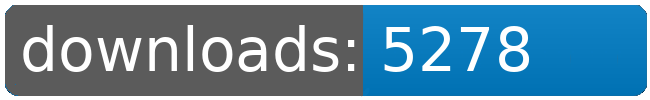
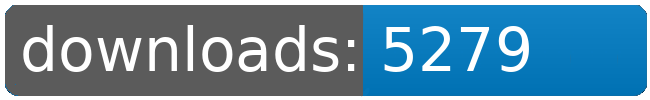
dl log written

Changed region(s): [[0.7692, 0.27, 0.8308, 0.72]]

diff --git a/README.md b/README.md
@@ -76,8 +76,8 @@
 		<td>5225</td>
 		<td>5248</td>
 		<td>5270</td>
-		<td>5278</td>
-		<td>+ 8</td>
+		<td>5279</td>
+		<td>+ 9</td>
 	</tr>
 	<tr>
 		<td>Solar.Sails</td>
@@ -109,8 +109,8 @@
 		<td></td>
 		<td></td>
 		<td></td>
-		<td>39285</td>
-		<td>67</td>
+		<td>39286</td>
+		<td>68</td>
 	</tr>
 </table>
 </sub></sup>
@@ -146,8 +146,8 @@
 		<td>5225</td>
 		<td>5248</td>
 		<td>5270</td>
-		<td>5278</td>
-		<td>+ 8</td>
+		<td>5279</td>
+		<td>+ 9</td>
 	</tr>
 	<tr>
 		<td>Bunsen.Burner</td>
@@ -223,8 +223,8 @@
 		<td></td>
 		<td></td>
 		<td></td>
-		<td>39285</td>
-		<td>67</td>
+		<td>39286</td>
+		<td>68</td>
 	</tr>
 </table>
 </sub></sup>
